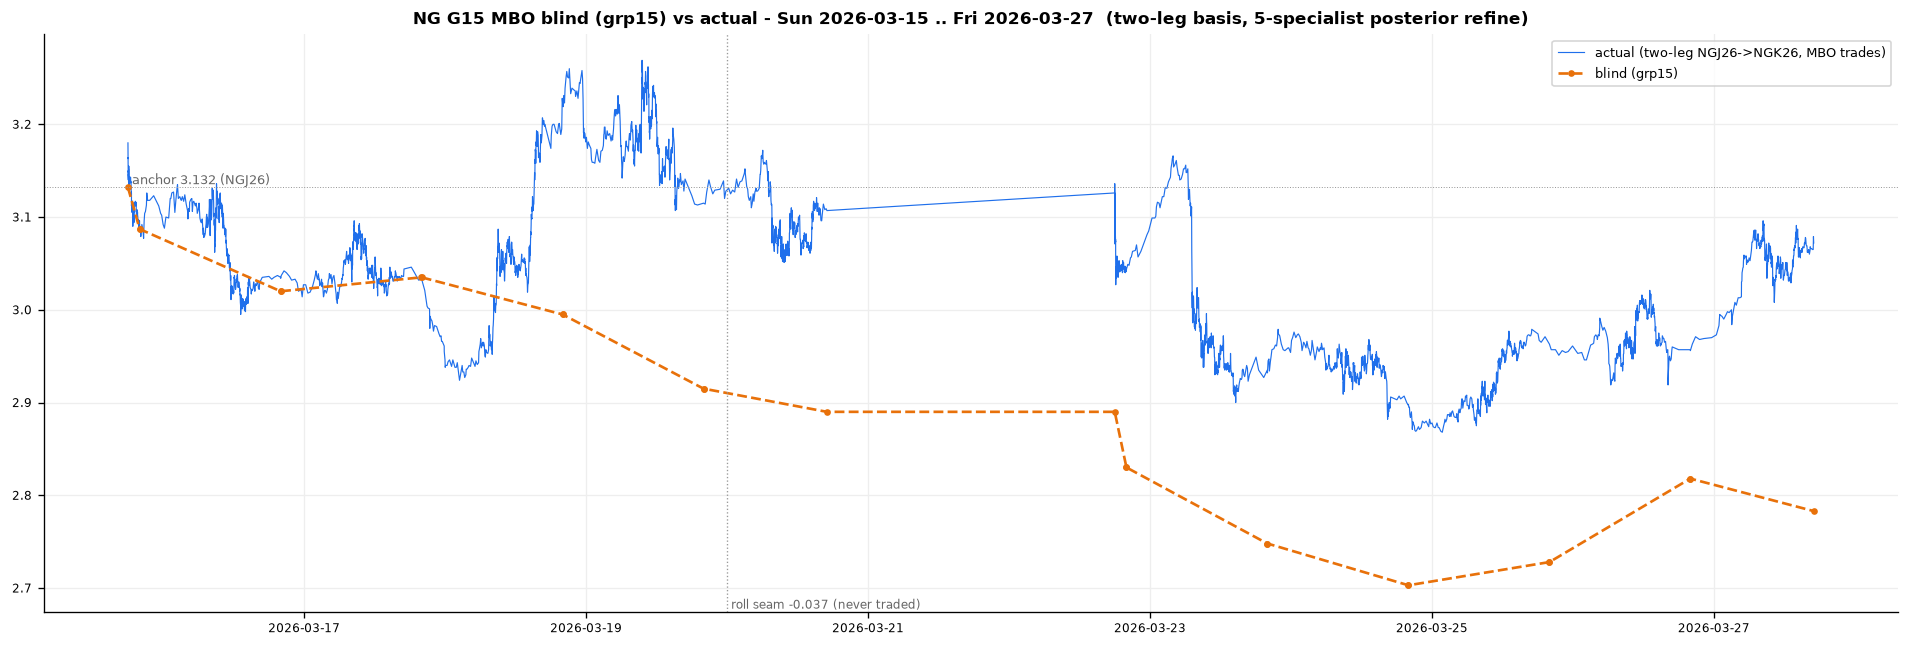
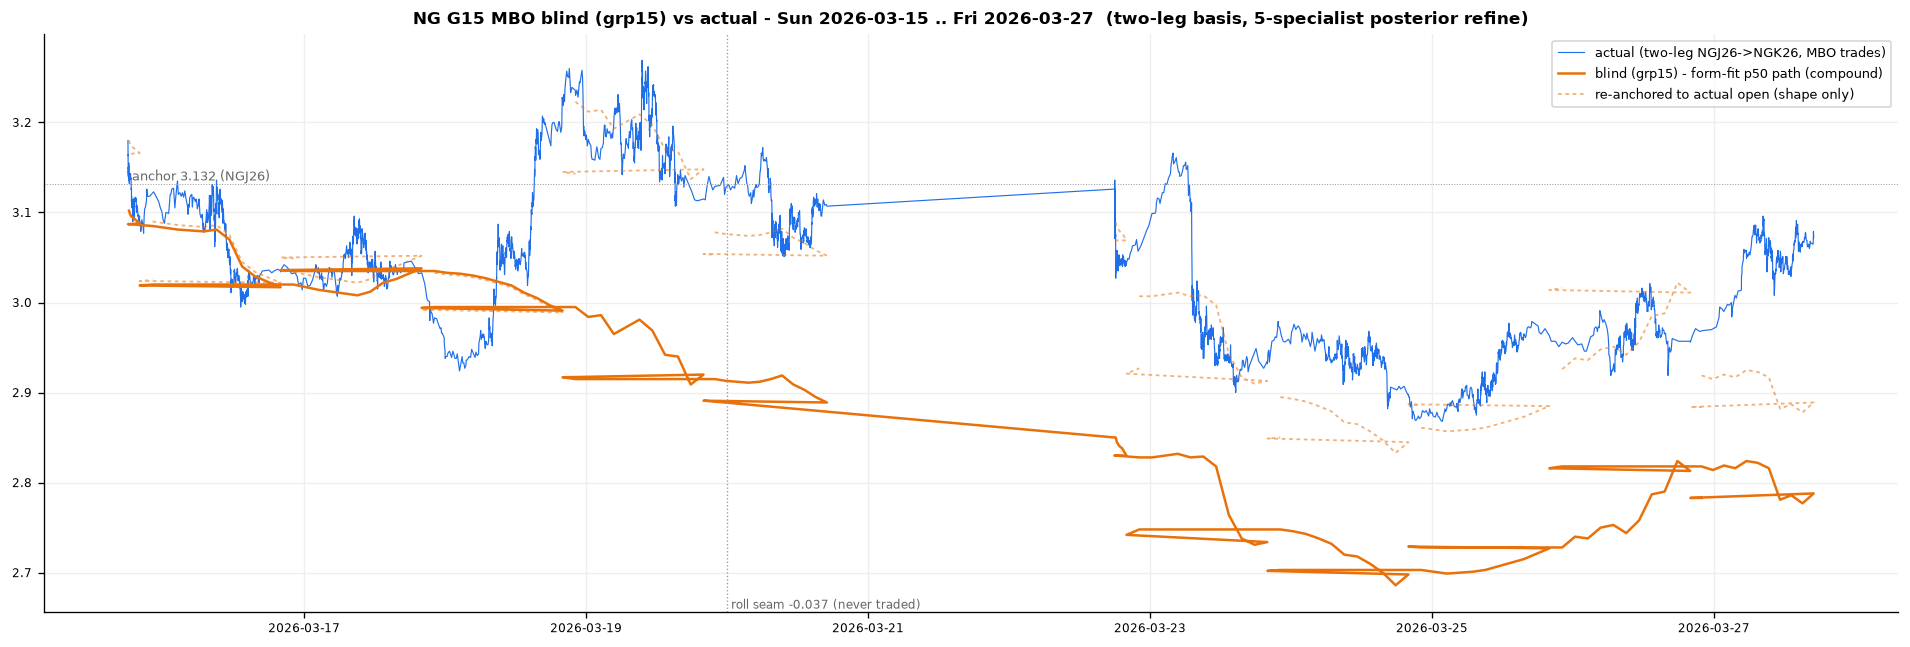
S103: G15 MBO renders - form-fit the intraday p50 path + re-anchored-to-actual line
Render now traces the forecast's intraday p50 path (shape from guess_curve /
path_p50_curve, close scaled to the scored day-move) instead of straight
open->close segments. Adds a dashed 're-anchored to actual open' line per day:
same forecast shape/magnitude drawn from the actual open, isolating direction/
shape skill from the compounding level drift.

Claude-Session: https://claude.ai/code/session_015Tqk9odPv7F7CE4AFxKRLR

diff --git a/research/kalshi/coordinate_g15_mbo.py b/research/kalshi/coordinate_g15_mbo.py
@@ -151,23 +151,74 @@ def main():
                "refined_mean_abs_err": round(np.mean([abs(s["refined_err"]) for s in score]))},
               open(os.path.join(OUT, "g15_mbo_comparison.json"), "w"), indent=1)
 
-    # RENDER blind + refined (cum-from-anchor via clean day-moves)
+    # RENDER blind + refined - FORM-FITTING the intraday p50 path (not straight open->close segments).
     adt = pd.to_datetime(np.asarray(cont_t), unit="s", utc=True).tz_convert(ET)
     spans = {d: load_trades(d) for d in DAYS if d in act_by}
-    for tag, dmfn, color, label in [("blind", blind_dm, "#e8710a", "blind (grp15)"),
-                                    ("refined", refined_dm, "#2ea043", "refined (5-specialist MBO)")]:
+
+    def _span_et(d):
+        ts, _ = spans[d]
+        return pd.to_datetime(ts, unit="s", utc=True).tz_convert(ET)
+
+    def _curve_pts(curve):
+        """normalize a [[et_hour, cum_from_open_usd], ...] path curve to (hpos, cum) arrays.
+        hpos = hours since the 18:00 ET reopen (wraps 0..~23), so the shape lands at the right x."""
+        if not isinstance(curve, list) or not curve:
+            return None
+        hh, cc = [], []
+        for pt in curve:
+            if not (isinstance(pt, (list, tuple)) and len(pt) >= 2):
+                continue
+            hh.append((float(pt[0]) - 18.0) % 24.0); cc.append(float(pt[1]))
+        if len(hh) < 2:
+            return None
+        return np.asarray(hh), np.asarray(cc)
+
+    def path_xy(d, curve, open_y, net_target=None):
+        """map a day's p50 path onto its actual trade-time span; optionally SCALE the shape so its
+        close lands exactly on net_target (magnitude from the scored day-move, shape from the forecast).
+        net_target=None draws the forecast's OWN magnitude (used for the re-anchored-to-actual line)."""
+        pts = _curve_pts(curve)
+        et = _span_et(d)
+        t0, t1 = et[0], et[-1]
+        if pts is None:
+            return [t0, t1], [open_y, open_y + ((net_target or 0) / MULT)]
+        hpos, cum = pts
+        rng = hpos.max() - hpos.min()
+        frac = (hpos - hpos.min()) / rng if rng > 1e-6 else np.linspace(0, 1, len(hpos))
+        factor = 1.0
+        if net_target is not None and abs(cum[-1]) > 1e-6:
+            factor = net_target / cum[-1]
+        xs = [t0 + f * (t1 - t0) for f in frac]
+        ys = [open_y + (c * factor) / MULT for c in cum]
+        return xs, ys
+
+    for tag, dmfn, curvefn, gapfn, netfn, color, label in [
+        ("blind", blind_dm, lambda d: bl_by[d].get("guess_curve"),
+         lambda d: bl_by[d].get("overnight_gap_usd", 0) or 0,
+         lambda d: bl_by[d].get("guessed_net_usd", 0) or 0, "#e8710a", "blind (grp15)"),
+        ("refined", refined_dm, lambda d: posts.get(d, {}).get("curve") or bl_by[d].get("guess_curve"),
+         lambda d: 0, lambda d: refined_dm(d), "#2ea043", "refined (5-specialist MBO)")]:
         fig, ax = plt.subplots(figsize=(16, 5.5))
         ax.plot(adt, cont_p, color="#1f6feb", lw=0.7, label="actual (two-leg NGJ26->NGK26, MBO trades)")
+        # (1) continuous FORM-FIT guess: compound from the running anchor cum, shape from the p50 path,
+        #     close scaled to the scored day-move.
         gx, gy = [], []
         run = 0.0
         for d in DAYS:
             if d not in act_by: continue
-            ts, _px = spans[d]
-            et = pd.to_datetime(ts, unit="s", utc=True).tz_convert(ET)
-            gx.append(et[0]); gy.append(ANCHOR + run / MULT)          # open at prior cum
+            gap = gapfn(d); net = netfn(d)
+            open_y = ANCHOR + (run + gap) / MULT
+            xs, ys = path_xy(d, curvefn(d), open_y, net_target=net)
+            gx.extend(xs); gy.extend(ys)
             run += dmfn(d)
-            gx.append(et[-1]); gy.append(ANCHOR + run / MULT)          # close at prior cum + day-move
-        ax.plot(gx, gy, color=color, lw=1.6, ls="--", marker="o", ms=3, label=label)
+        ax.plot(gx, gy, color=color, lw=1.5, label=f"{label} - form-fit p50 path (compound)")
+        # (2) SAME guess RE-ANCHORED to the actual open each day (Greg: "if it started off on the price").
+        #     Direction/shape skill without the compounding level drift; own magnitude, unscaled.
+        for d in DAYS:
+            if d not in act_by: continue
+            xs, ys = path_xy(d, curvefn(d), act_by[d]["open"], net_target=None)
+            ax.plot(xs, ys, color=color, lw=1.1, ls=(0, (2, 2)), alpha=0.55,
+                    label="re-anchored to actual open (shape only)" if d == DAYS[0] else None)
         sd = pd.Timestamp(f"{SEAM[:4]}-{SEAM[4:6]}-{SEAM[6:]}", tz=ET)
         ax.axvline(sd, color="#999", lw=0.8, ls=":"); ax.text(sd, ax.get_ylim()[0], f" roll seam {seam:+.3f} (never traded)", fontsize=7, color="#666", va="bottom")
         ax.axhline(ANCHOR, color="#999", lw=0.6, ls=":"); ax.text(adt[0], ANCHOR, " anchor 3.132 (NGJ26)", fontsize=8, color="#666", va="bottom")
